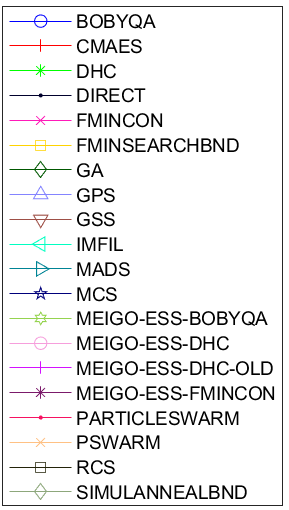
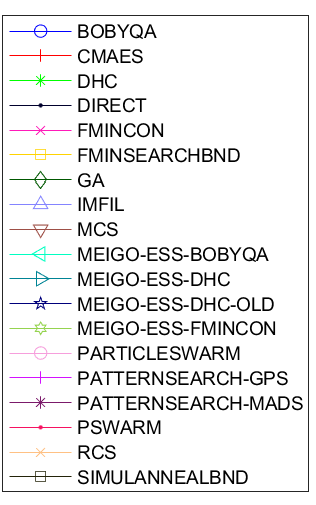
adapt output labels

Changed region(s): [[0.0, 0.0, 0.9965, 1.0]]

diff --git a/tests_testfunction/evaluateTestResults_all.m b/tests_testfunction/evaluateTestResults_all.m
@@ -14,6 +14,7 @@ for j=1:nKeys
 end
 set(gca,'XTick',[]);
 ylim([0,100]);
+title('Multistart setting','Interpreter','latex');
 % pbaspect([4 1 1]);
 
 subplot(4,2,[3 4]);
@@ -23,6 +24,7 @@ for j=1:nKeys
 end
 set(gca,'XTick',[]);
 ylim([0,100]);
+title('Singlestart setting','Interpreter','latex');
 % pbaspect([4 1 1]);
 
 subplot(4,2,[5 6]);
@@ -32,15 +34,17 @@ for j=1:nKeys
 end
 set(gca,'XTick',[]);
 ylim([0,100]);
+title('Multistart setting, $$n_g = 40000, N_g = 1$$','Interpreter','latex');
 % pbaspect([4 1 1]);
 
 subplot(4,2,[7 8]);
-ybar = bar(100*v_y_noise');
+ybar = bar(100*v_y_smooth_convex_noise');
 for j=1:nKeys
     ybar(j).FaceColor = colors(j,:);
 end
 xticklabels({'all','smooth','nonsmooth','convex','nonconvex'});
 ylim([0,100]);
+title('Multistart setting, noisy','Interpreter','latex');
 % pbaspect([4 1 1]);
 
 saveas(fig, [pwd '/images/collection.png']);

diff --git a/tests_testfunction/evaluateTestResults_noise.m b/tests_testfunction/evaluateTestResults_noise.m
@@ -2,6 +2,10 @@
 solvers = horzcat(C.cell_solvers_local,C.cell_solvers_global);
 cell_results_all = cell(0);
 for j=1:length(solvers)
+    solver = solvers{j};
+    if strcmp(solver,'gss')
+        continue;
+    end
     file = ['results/cell_results_test_' solvers{j} '_2000_20_noise_.mat'];
     if exist(file,'file')
         load(file);
@@ -90,7 +94,7 @@ markers = {'o','+','*','.','x','s','d','^','v','<','>','p','h','o','+','*','.','
 markers = markers(1:nKeys);
 axes('NextPlot','replacechildren', 'ColorOrder',colors); 
 
-legendon = 'off';
+legendon = 'show';
 
 % smoothness, convexity, modality
 

diff --git a/tests_testfunction/evaluateTestResults.m b/tests_testfunction/evaluateTestResults.m
@@ -2,7 +2,11 @@
 solvers = horzcat(C.cell_solvers_local,C.cell_solvers_global);
 cell_results_all = cell(0);
 for j=1:length(solvers)
-    file = ['results/cell_results_test_' solvers{j} '_2000_20_.mat'];
+    solver = solvers{j};
+    if strcmp(solver,'gss')
+        continue;
+    end
+    file = ['results/cell_results_test_' solver '_2000_20_.mat'];
     if exist(file,'file')
         load(file);
         cell_results_all = vertcat(cell_results_all,cell_results);

diff --git a/tests_testfunction/EvaluationHelper.m b/tests_testfunction/EvaluationHelper.m
@@ -12,6 +12,9 @@ classdef EvaluationHelper
             for j = 1:n
                 result = cell_results_all{j};
                 result.alg = upper(result.alg);
+                if any(strcmp(result.alg,{'GPS','MADS'}))
+                   result.alg = ['PATTERNSEARCH-' result.alg];
+                end
                 cell_results_preprocessed{j} = result;
             end
         end

diff --git a/tests_testfunction/evaluateTestResults_multistart.m b/tests_testfunction/evaluateTestResults_multistart.m
@@ -4,6 +4,10 @@ solvers_local = C.cell_solvers_local;
 solvers_global = C.cell_solvers_global;
 cell_results_all = cell(0);
 for j=1:length(solvers_local)
+    solver = solvers_local{j};
+    if strcmp(solver,'gss')
+        continue;
+    end
     file = ['results/cell_results_test_' solvers_local{j} '_2000_20_.mat'];
     if exist(file,'file')
         load(file);
